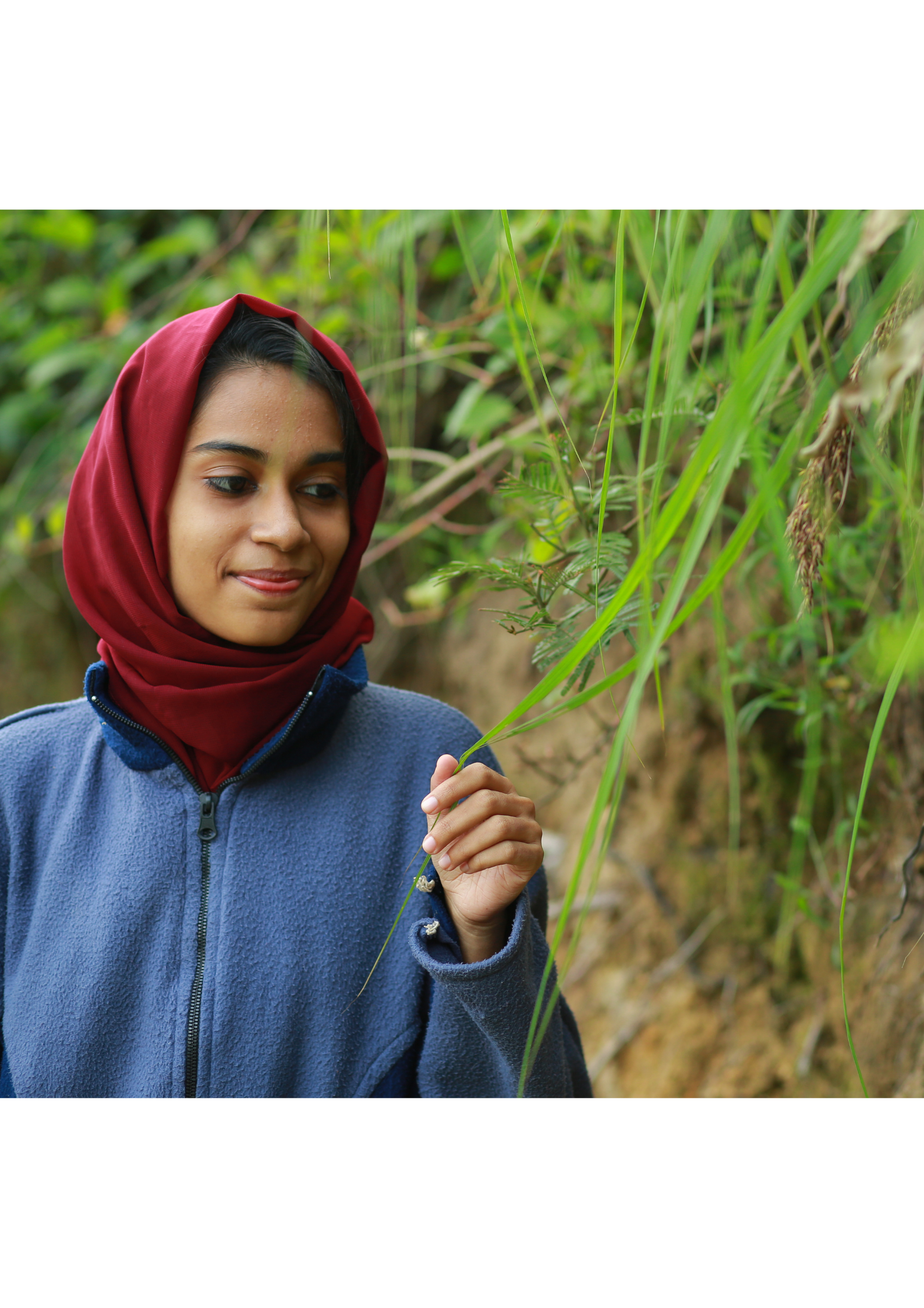
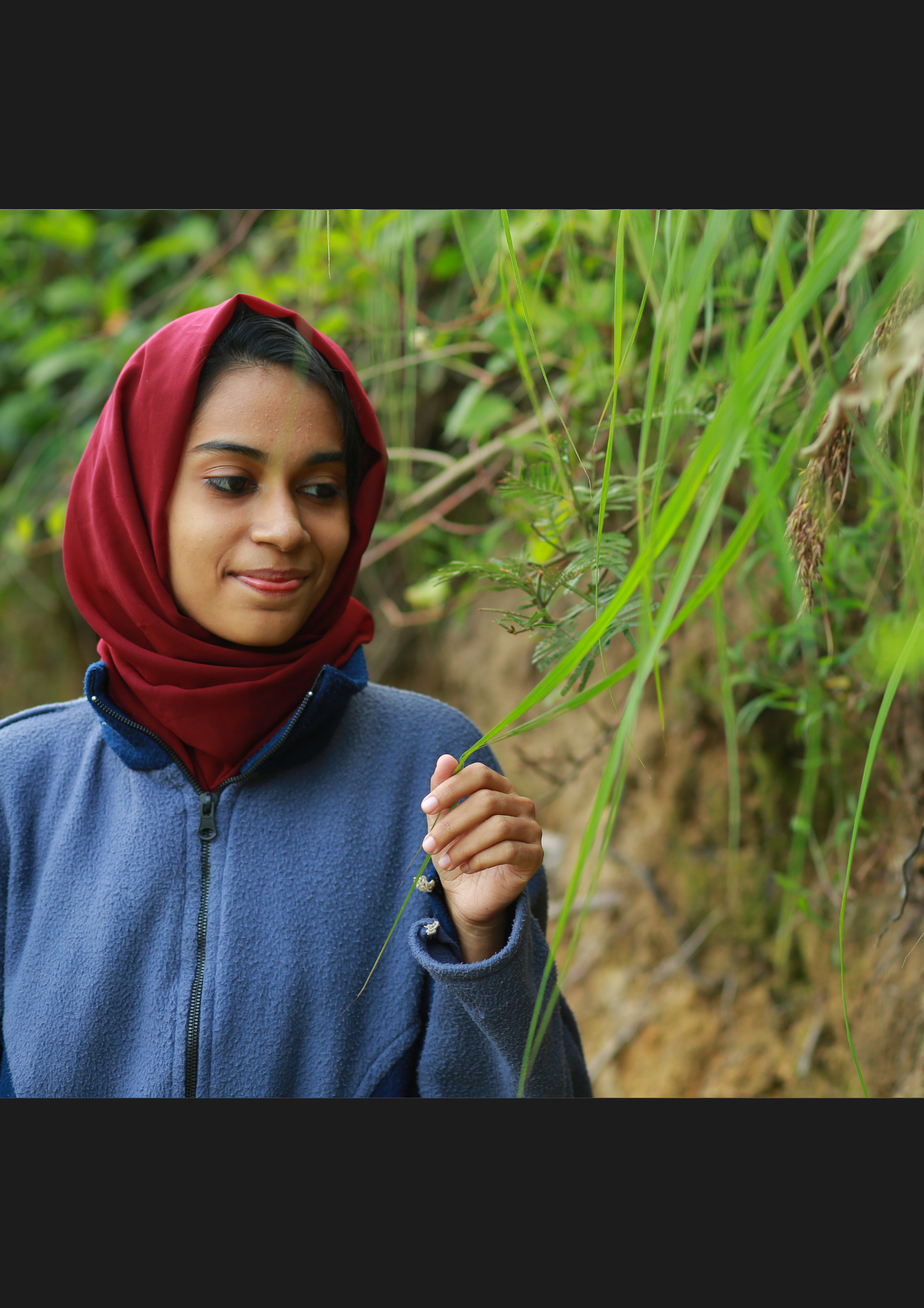
image edit and coler

diff --git a/css/style.css b/css/style.css
@@ -7,9 +7,16 @@
 /* Typography CSS */
 body
 {
-    background-color: #1c1c1ds;
+    background: #1c1c1d;
+
     font-family: 'Lato', sans-serif;
     color: white;
+}
+p,h1{
+    color: white !important;
+}
+img{
+    background: #1c1c1d;
 }
 
 
